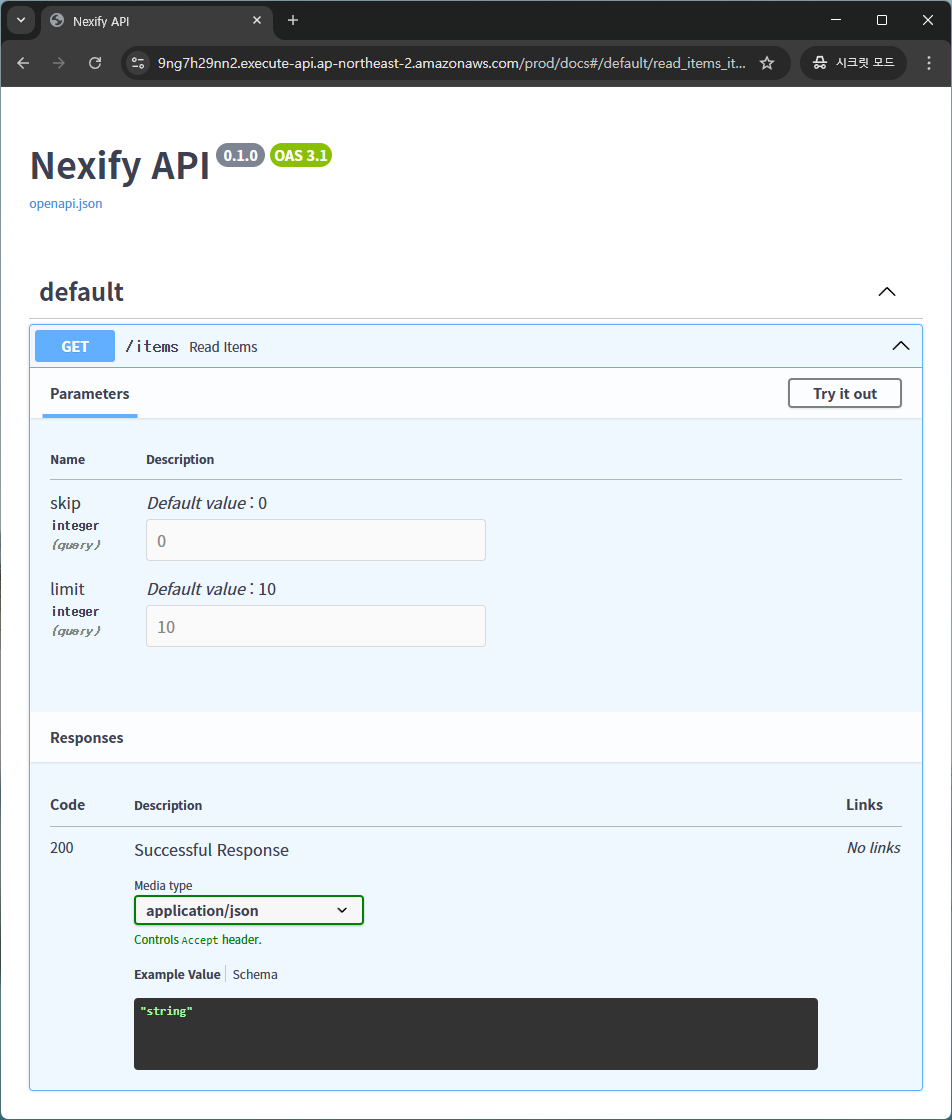
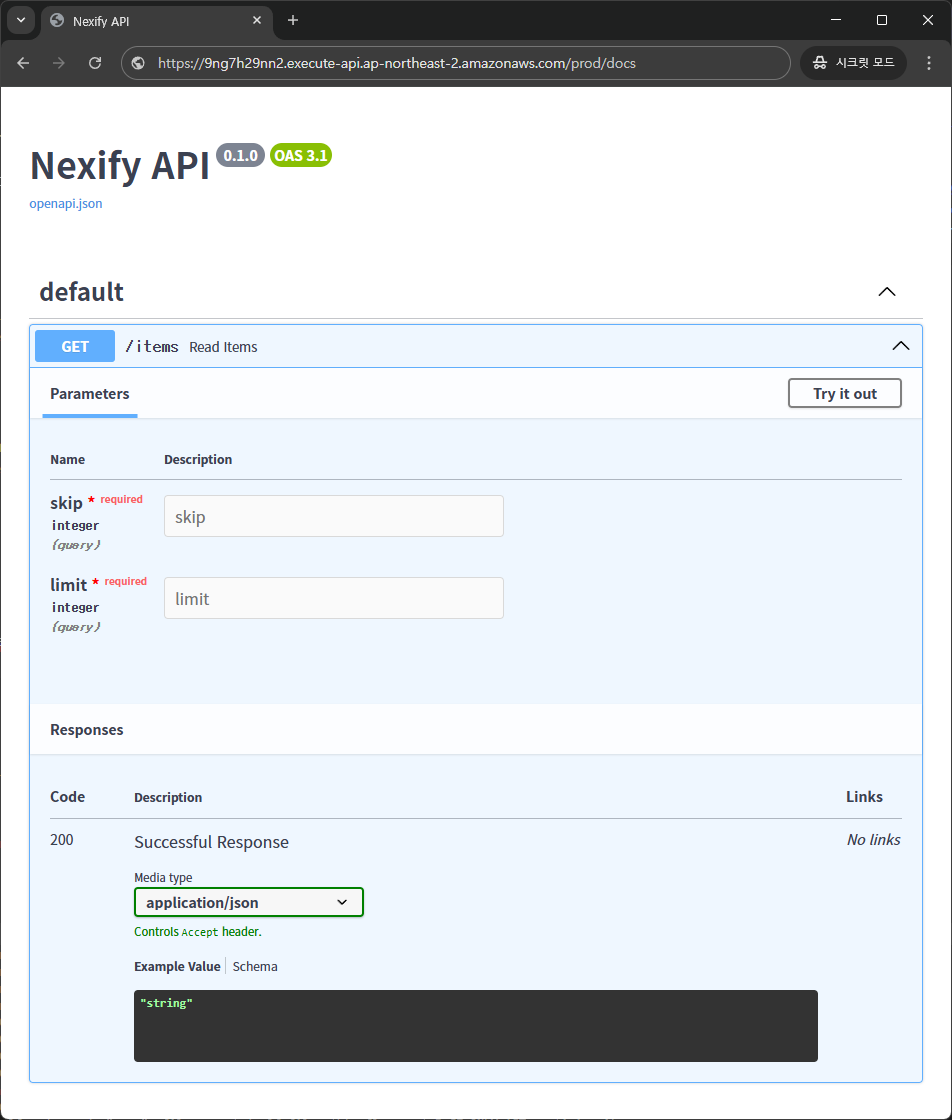
📝 Add request body tutorial

diff --git a/docs_src/body/tutorial001.py b/docs_src/body/tutorial001.py
@@ -1,0 +1,19 @@
+from typing import Annotated
+
+from nexify import Body, Nexify
+from pydantic import BaseModel
+
+
+class Item(BaseModel):
+    name: str
+    description: str | None = None
+    price: float
+    tax: float | None = None
+
+
+app = Nexify()
+
+
+@app.post("/items")
+def create_item(item: Annotated[Item, Body()]):
+    return item

diff --git a/docs/ko/docs/learn/tutorial/body.md b/docs/ko/docs/learn/tutorial/body.md
@@ -1,0 +1,99 @@
+# 요청 본문 (Body)
+
+클라이언트 (예: 브라우저)에서 API로 데이터를 전송해야 할 때 **요청 본문 (request body)**로 보냅니다.
+
+요청 본문은 클라이언트가 API로 전송하는 데이터이며, 응답 본문 (response body)는 API가 클라이언트로 보내는 데이터입니다.
+
+API는 거의 항상 응답 본문을 반환해야 합니다. 하지만 클라이언트는 항상 요청 본문을 보낼 필요는 없습니다. 때로는 경로(path)만 요청하거나, 일부 쿼리 매개변수(query parameters)만 포함하는 경우도 있으며, 요청 본문을 보내지 않을 수도 있습니다.
+
+요청 본문을 선언하려면, <a href="https://docs.pydantic.dev" class="external-link" target="_blank">Pydantic</a> 모델을 활용하면 됩니다.
+
+/// info
+데이터를 전송할 때는 POST(가장 일반적), PUT, DELETE, PATCH 중 하나를 사용해야 합니다.
+
+HTTP 프로토콜에 따르면 GET 요청에 본문을 포함해서 호출하는 것은 허용되지 않습니다. 하지만 Nexify는 매우 특수한 경우를 위해 이를 지원합니다.
+
+하지만 이는 권장되지 않으며, Swagger UI의 자동 문서화에서는 GET 요청 시 본문을 표시하지 않으며, 중간 프록시(proxy)에서 이를 지원하지 않을 수도 있습니다.
+///
+
+## Pydantic의 `BaseModel` import
+
+먼저 `pydantic`에서 `BaseModel`를 임포트해야 합니다.
+
+{* ../../docs_src/body/tutorial001.py hl[4] *}
+
+## 데이터 모델 생성하기
+
+그 다음, `BaseModel`을 상속받는 클래스를 선언하여 데이터 모델을 정의합니다.
+
+각 속성에는 표준 파이썬 타입(`int`, `str`, `bool` 등)을 사용하면 됩니다.
+
+{* ../../docs_src/body/tutorial001.py hl[7:11] *}
+
+쿼리 매개변수를 선언할 때와 같이, 데이터 모델의 각 속성이 기본 값을 가지고 있으면, 해당 속성은 필수가 아닙니다.
+기본값을 가지고 있지 않는 모든 속성은 필수입니다.
+
+예를 들어, 위의 모델은 다음과 같이 선언합니다.
+
+```JSON
+{
+  "name": "Foo",
+  "description": "선택적인 설명란",
+  "price": 45.2,
+  "tax": 3.5
+}
+```
+
+`description`과 `tax`는 기본값이 존재하기 때문에, 아래와 같은 선언도 유효합니다.
+
+```JSON
+{
+  "name": "Foo",
+  "price": 45.2
+}
+```
+
+## 매개변수로서 선언하기
+
+여러분의 API에 요청 본문을 추가하기 위해서, 경로 매개변수와 쿼리 매개변수에서 선언했던 것과 같은 방식으로 선언하면 됩니다.
+
+{* ../../docs_src/body/tutorial001.py hl[18] *}
+
+`Annotated`와 함께 `Body()`를 넣어서 선언하면 됩니다.
+
+## 데이터 검증
+
+`/items`에 아래와 같은 본문을 담아 요청을 보내면
+
+```JSON
+{
+  "name": "Foo",
+  "description": "선택적인 설명란",
+  "price": 45.2,
+  "tax": "USA TAX"
+}
+```
+
+`tax`가 `float`여야하지만 `str`로 잘못 선언되었습니다.
+이 경우 다음과 같은 422 응답을 볼 수 있습니다.
+
+```JSON
+{
+  "detail": [
+    {
+      "type": "float_parsing",
+      "loc": ["body", "item", "tax"],
+      "msg": "Input should be a valid number, unable to parse string as a number",
+      "input": "USA TAX"
+    }
+  ]
+}
+```
+
+경로 매개변수와 쿼리 매개변수에 대해서 동일하게 내부적인 Pydantic 기반의 데이터 검증 과정에서 오류가 발생하며, **Nexify**는 상세한 오류 메시지가 포함된 422 응답을 반환합니다.
+
+## 문서화
+
+모델의 JSON 스키마는 생성된 OpenAPI 스키마에 포함되며 Swagger UI에 포함됩니다.
+
+![Swagger UI](https://nexify.junah.dev/img/learn/tutorial/body/01-swagger-ui.png)

diff --git a/docs/en/docs/learn/tutorial/body.md b/docs/en/docs/learn/tutorial/body.md
@@ -1,0 +1,98 @@
+# Request Body
+
+When you need to send data from a client (e.g., a browser) to your API, you send  it as a **request body**.
+
+A request body is the data sent by the client to the API, while the response body is the data the API sends back to the client.
+
+Your API almost always needs to return a response body. But, clients don't always need to send a request body. Sometimes, they may only request a path or include some query parameters without sending a body.
+
+To declare a request body, you use <a href="https://docs.pydantic.dev" class="external-link" target="_blank">Pydantic</a> models with all their power and benefits.
+
+/// info
+When sending data, you should use one of the following HTTP methods: `POST` (most common), `PUT`, `DELETE`, or `PATCH`.
+
+Sending a body with a GET request has an undefined behavior in the specifications, nevertheless, it is supported by Nexify, only for very complex/extreme use cases.
+
+As it is discouraged, the interactive docs with Swagger UI won't show the documentation for the body when using `GET`, and proxies in the middle might not support it.
+///
+
+## Import Pydantic's `BaseModel`
+
+First, you need to import `BaseModel` from `pydantic`:
+
+{* ../../docs_src/body/tutorial001.py hl[4] *}
+
+## Create your Data Model
+
+Next, you declare your data model as a class that inherits from `BaseModel`.
+
+Use standard Python types for all the attributes:
+
+{* ../../docs_src/body/tutorial001.py hl[7:11] *}
+
+Like query parameters, if a model attribute has a default value, it is optional. Otherwise, it is required. Setting `None` as the default value makes it optional.
+
+For example, this model above declares a JSON "`object`" (or Python `dict`) like:
+
+```JSON
+{
+  "name": "Foo",
+  "description": "An optional description",
+  "price": 45.2,
+  "tax": 3.5
+}
+```
+
+Since `description` and `tax` are optional, the following JSON is also valid:
+
+```JSON
+{
+  "name": "Foo",
+  "price": 45.2
+}
+```
+
+## Declare it as a Parameter
+
+To add the request body to your API, declare it the same way you declared path and query parameters:
+
+{* ../../docs_src/body/tutorial001.py hl[18] *}
+
+Just declare it by putting `Body()` with `Annotated`.
+
+## Data Validation
+
+If you send a request to `/items` with the following body
+
+```JSON
+{
+  “name": “Foo”,
+  “description": “Optional description field”,
+  “price": 45.2,
+  “tax": “USA TAX”
+}
+```
+
+In this case, The `tax` should be a `float` but was incorrectly declared as a `str`.
+So that you might see a 422 response like this:
+
+```JSON
+{
+  "detail": [
+    {
+      "type": "float_parsing",
+      "loc": ["body", "item", "tax"],
+      "msg": "Input should be a valid number, unable to parse string as a number",
+      "input": "USA TAX"
+    }
+  ]
+}
+```
+
+Just like in the path and query parameters tutorial, an internal Pydantic-based validation error occurs, and Nexify returns a 422 response with a detailed error message.
+
+## Documentation
+
+The JSON schema of the model is included in the generated OpenAPI schema and is included in the Swagger UI.
+
+![Swagger UI](https://nexify.junah.dev/img/learn/tutorial/body/01-swagger-ui.png)
